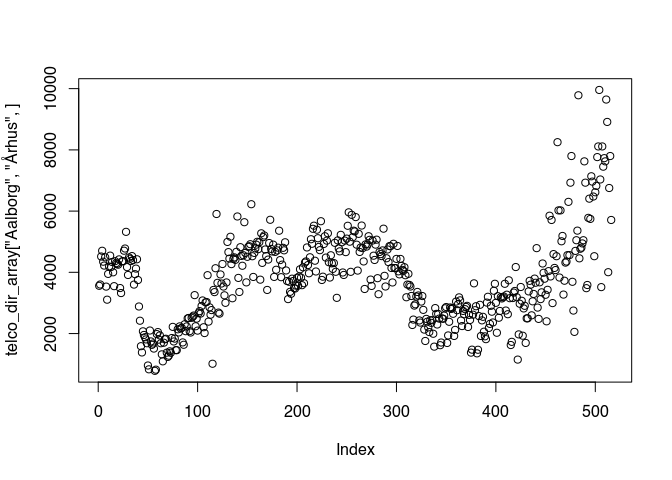
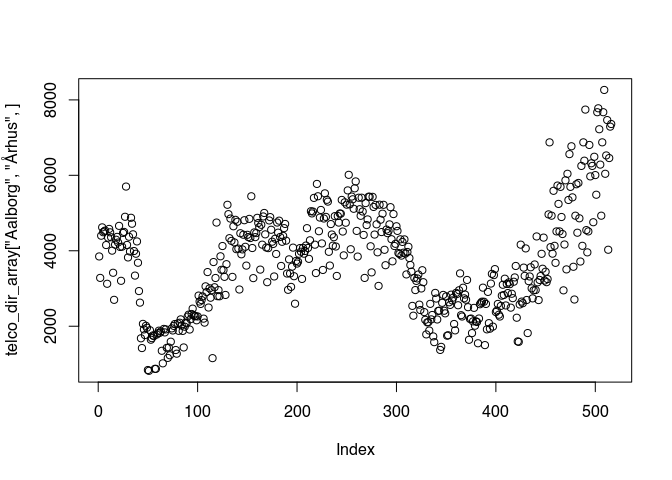
update to fixed directional data format

diff --git a/data/Mobility-telco/README.md b/data/Mobility-telco/README.md
@@ -17,10 +17,9 @@ of municipalities each day can be downloaded from the website:
 > dataset is also available. See the bottom of this page.
 
 ``` r
-telco_link <- "https://covid19.compute.dtu.dk/data/telco_map_new.json"
-
 # The file is large (>17 MB) so only download if missing (or outdated)
 if(!file.exists("telco_map_new.json")) {
+    telco_link <- "https://covid19.compute.dtu.dk/data/telco_map_new.json"
     download.file(telco_link, destfile = "telco_map_new.json")
 }
 ```
@@ -166,10 +165,9 @@ travel data. This is not visualized on the website.
 First, we download the data.
 
 ``` r
-telco_link <- "https://covid19.compute.dtu.dk/data/telco_data.json"
-
 # The file is large (> 61 MB) so only download if missing (or outdated)
 if(!file.exists("telco_data.json")) {
+    telco_link <- "https://covid19.compute.dtu.dk/data/telco_data.json"
     download.file(telco_link, destfile = "telco_data.json")
 }
 ```
@@ -183,14 +181,14 @@ str(telco_dir_list) # Print structure
 ```
 
     ## List of 3
-    ##  $ data     : num [1:9604, 1:516] 3.23e+05 1.87e+02 0.00 6.72 7.25e+02 ...
+    ##  $ data     : num [1:9604, 1:516] 323162 405 0 0 690 ...
     ##  $ locations: chr [1:98] "Aabenraa" "Aalborg" "Albertslund" "Allerød" ...
     ##  $ dates    : chr [1:516] "2020-02-01 00:00:00" "2020-02-02 00:00:00" "2020-02-03 00:00:00" "2020-02-04 00:00:00" ...
 
 `telco_dir_list$data` is a matrix with columns corresponding to dates
 and rows corresponding to each unique origin-destination combination
-(location\[1\] -&gt; location\[1\], location\[2\] -&gt; location\[1\],
-location\[3\] -&gt; location\[1\] … location\[1\] -&gt; location\[2\],
+(location\[1\] -&gt; location\[1\], location\[1\] -&gt; location\[2\],
+location\[1\] -&gt; location\[3\] … location\[2\] -&gt; location\[1\],
 location\[2\] -&gt; location\[2\] …).
 
 This time, the quite close to a 3D array to begin with. We can wrap this
@@ -200,13 +198,13 @@ matrix into a 3D array.
 telco_dir_array <- with(telco_dir_list, 
                         array(data, dim = c(98, 98, 516), 
                           dimnames = list(
-                             origin = locations,
                              dest = locations, 
+                             origin = locations,
                              date = as.character(as.Date(dates)))
                         )
                     )
 
-# All dates from Aalborg to Aarhus
+# All dates from Aarhus to Aalborg
 plot(telco_dir_array["Aalborg", "Århus", ])
 ```
 
@@ -224,14 +222,14 @@ head(telco_dir_df)
 
 <div class="kable-table">
 
-| date       | origin      | dest     |        trips |
-|:-----------|:------------|:---------|-------------:|
-| 2020-02-01 | Aabenraa    | Aabenraa | 3.231621e+05 |
-| 2020-02-01 | Aalborg     | Aabenraa | 1.865877e+02 |
-| 2020-02-01 | Albertslund | Aabenraa | 0.000000e+00 |
-| 2020-02-01 | Allerød     | Aabenraa | 6.717156e+00 |
-| 2020-02-01 | Assens      | Aabenraa | 7.245214e+02 |
-| 2020-02-01 | Ballerup    | Aabenraa | 0.000000e+00 |
+| date       | origin   | dest        |        trips |
+|:-----------|:---------|:------------|-------------:|
+| 2020-02-01 | Aabenraa | Aabenraa    | 3.231621e+05 |
+| 2020-02-01 | Aabenraa | Aalborg     | 4.052684e+02 |
+| 2020-02-01 | Aabenraa | Albertslund | 0.000000e+00 |
+| 2020-02-01 | Aabenraa | Allerød     | 0.000000e+00 |
+| 2020-02-01 | Aabenraa | Assens      | 6.901332e+02 |
+| 2020-02-01 | Aabenraa | Ballerup    | 8.956209e+00 |
 
 </div>
 
@@ -279,20 +277,20 @@ dimensions (origin, destination and date).
 
 ``` r
 with(telco_dir_list, 
-     bind_cols(expand.grid(origin = locations, dest = locations, date = as.Date(dates)), 
+     bind_cols(expand.grid(dest = locations, origin = locations, date = as.Date(dates)), 
                trips = as.vector(data))
 ) %>% head
 ```
 
 <div class="kable-table">
 
-| origin      | dest     | date       |        trips |
+| dest        | origin   | date       |        trips |
 |:------------|:---------|:-----------|-------------:|
 | Aabenraa    | Aabenraa | 2020-02-01 | 3.231621e+05 |
-| Aalborg     | Aabenraa | 2020-02-01 | 1.865877e+02 |
+| Aalborg     | Aabenraa | 2020-02-01 | 4.052684e+02 |
 | Albertslund | Aabenraa | 2020-02-01 | 0.000000e+00 |
-| Allerød     | Aabenraa | 2020-02-01 | 6.717156e+00 |
-| Assens      | Aabenraa | 2020-02-01 | 7.245214e+02 |
-| Ballerup    | Aabenraa | 2020-02-01 | 0.000000e+00 |
+| Allerød     | Aabenraa | 2020-02-01 | 0.000000e+00 |
+| Assens      | Aabenraa | 2020-02-01 | 6.901332e+02 |
+| Ballerup    | Aabenraa | 2020-02-01 | 8.956209e+00 |
 
 </div>
